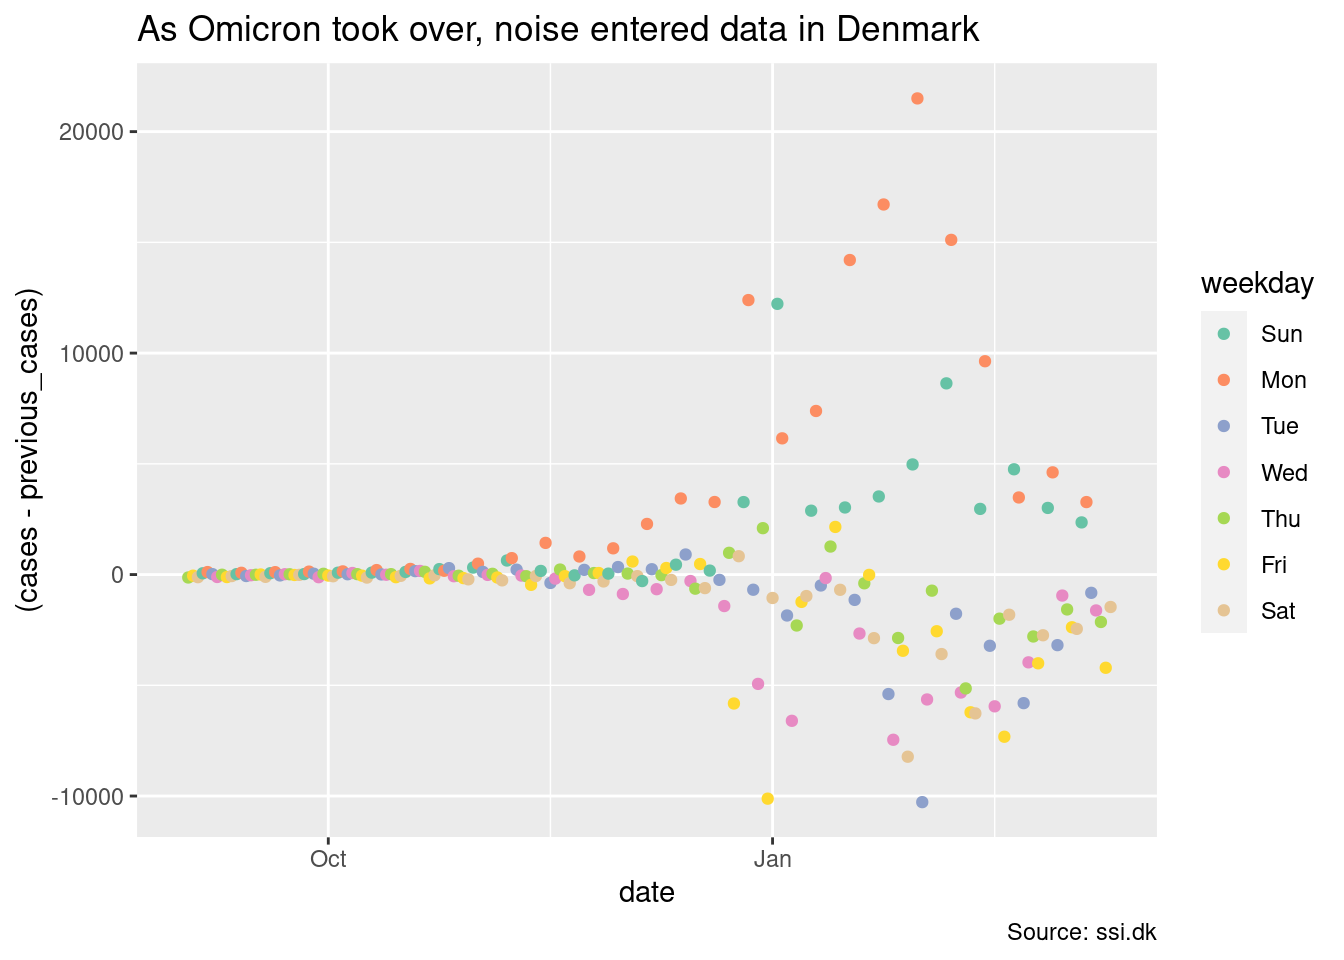
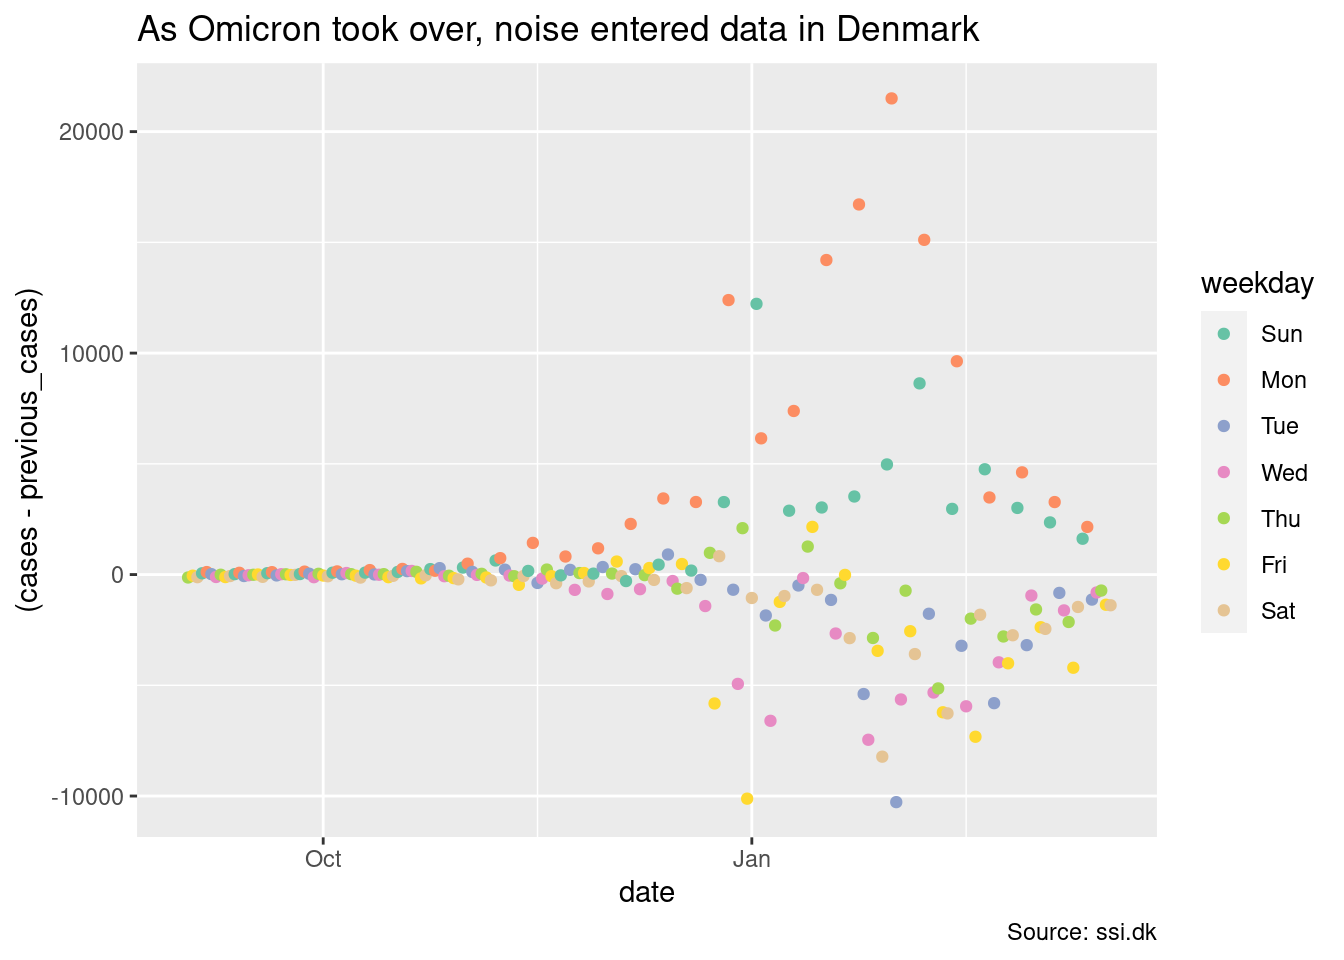
2022-03-22

diff --git a/docs/index.html b/docs/index.html
@@ -10,7 +10,7 @@
 
 
 
-<meta name="date" content="2022-03-15" />
+<meta name="date" content="2022-03-22" />
 
 <title>Covid-19 Stats for Denmark</title>
 
@@ -261,7 +261,7 @@ $(document).ready(function () {
 
 
 <h1 class="title toc-ignore">Covid-19 Stats for Denmark</h1>
-<h4 class="date">2022-03-15</h4>
+<h4 class="date">2022-03-22</h4>
 
 </div>
 
@@ -308,7 +308,7 @@ $(document).ready(function () {
 <pre class="r"><code>library(tidyverse)
 library(lubridate)</code></pre>
 <p>SSI’s data is in a zip file. We unpack this zip file into a directory of the general form <code>YYYY-MM-DD</code>. Lets set up a name for the current directory we want to grab data from</p>
-<pre class="r"><code>date &lt;- &quot;2022-03-15&quot;</code></pre>
+<pre class="r"><code>date &lt;- &quot;2022-03-22&quot;</code></pre>
 </div>
 <div id="ingesting-data" class="section level2">
 <h2>Ingesting data</h2>
@@ -350,7 +350,7 @@ library(lubridate)</code></pre>
                                       ))</code></pre>
 <pre><code>## ℹ Using &quot;&#39;,&#39;&quot; as decimal and &quot;&#39;.&#39;&quot; as grouping mark. Use `read_delim()` for more control.</code></pre>
 <pre class="r"><code>data</code></pre>
-<pre><code>## # A tibble: 7,129 × 9
+<pre><code>## # A tibble: 7,198 × 9
 ##    Region      Prøvetagningsdato Køn   `Bekræftede tilfælde…`  Døde Indlæggelser
 ##    &lt;fct&gt;       &lt;date&gt;            &lt;fct&gt;                  &lt;dbl&gt; &lt;dbl&gt;        &lt;dbl&gt;
 ##  1 Sjælland    2020-02-26        M                          1     0            0
@@ -363,7 +363,7 @@ library(lubridate)</code></pre>
 ##  8 Hovedstaden 2020-03-03        F                          1     0            0
 ##  9 Hovedstaden 2020-03-03        M                          3     0            1
 ## 10 Hovedstaden 2020-03-04        M                          2     0            0
-## # … with 7,119 more rows, and 3 more variables: `Kummuleret antal døde` &lt;dbl&gt;,
+## # … with 7,188 more rows, and 3 more variables: `Kummuleret antal døde` &lt;dbl&gt;,
 ## #   `Kummuleret antal bekræftede tilfælde` &lt;dbl&gt;,
 ## #   `Kummuleret antal indlæggelser` &lt;dbl&gt;</code></pre>
 <p>We certainly don’t want to work with danish-named columns. Rather, we want small descriptive names which are easy to type. We send our dataset through a <code>rename</code> pass for this.</p>
@@ -378,7 +378,7 @@ library(lubridate)</code></pre>
 # Cut the cumulative columns away
 data &lt;- data %&gt;% select(region, date, gender, cases, deaths, hospitalizations)
 data</code></pre>
-<pre><code>## # A tibble: 7,129 × 6
+<pre><code>## # A tibble: 7,198 × 6
 ##    region      date       gender cases deaths hospitalizations
 ##    &lt;fct&gt;       &lt;date&gt;     &lt;fct&gt;  &lt;dbl&gt;  &lt;dbl&gt;            &lt;dbl&gt;
 ##  1 Sjælland    2020-02-26 M          1      0                0
@@ -391,7 +391,7 @@ data</code></pre>
 ##  8 Hovedstaden 2020-03-03 F          1      0                0
 ##  9 Hovedstaden 2020-03-03 M          3      0                1
 ## 10 Hovedstaden 2020-03-04 M          2      0                0
-## # … with 7,119 more rows</code></pre>
+## # … with 7,188 more rows</code></pre>
 <p>Provide a low cut-off. We are interested in the recent period with Omicron, rather than the full duration of Covid-19.</p>
 <pre class="r"><code>lo_cutoff &lt;- &#39;2021-09-01&#39;</code></pre>
 <p>The high end of that cutoff, we set to two days before the maximal date in our data set</p>
@@ -405,7 +405,7 @@ data</code></pre>
 # Put this into the summary
 summary &lt;- data
 summary</code></pre>
-<pre><code>## # A tibble: 1,930 × 6
+<pre><code>## # A tibble: 2,000 × 6
 ##    region      date       gender cases deaths hospitalizations
 ##    &lt;fct&gt;       &lt;date&gt;     &lt;fct&gt;  &lt;dbl&gt;  &lt;dbl&gt;            &lt;dbl&gt;
 ##  1 Hovedstaden 2021-09-01 F        215      0                7
@@ -418,7 +418,7 @@ summary</code></pre>
 ##  8 Nordjylland 2021-09-01 M         16      1                2
 ##  9 Sjælland    2021-09-01 M         39      0                3
 ## 10 Syddanmark  2021-09-01 M         41      0                1
-## # … with 1,920 more rows</code></pre>
+## # … with 1,990 more rows</code></pre>
 </div>
 <div id="weekly-key-figures-split-by-age" class="section level3">
 <h3>Weekly key figures split by age</h3>
@@ -443,7 +443,7 @@ summary</code></pre>
                         tested = &#39;Antal testede&#39;,
                         cases = &#39;Antal positive&#39;)
 data</code></pre>
-<pre><code>## # A tibble: 976 × 7
+<pre><code>## # A tibble: 985 × 7
 ##    week     ageGroup tested_100k cases_100k hospitalized_100k tested cases
 ##    &lt;chr&gt;    &lt;fct&gt;          &lt;dbl&gt;      &lt;dbl&gt;             &lt;dbl&gt;  &lt;dbl&gt; &lt;dbl&gt;
 ##  1 2020-W04 00-02              0          0                 0      0     0
@@ -456,7 +456,7 @@ data</code></pre>
 ##  8 2020-W04 65-79              0          0                 0      0     0
 ##  9 2020-W04 80+                0          0                 0      0     0
 ## 10 2020-W05 65-79              0          0                 0      1     0
-## # … with 966 more rows</code></pre>
+## # … with 975 more rows</code></pre>
 <p>Take a look at the <code>week</code> column. It reports a year, and a week number. We’ll need to handle this, by converting this into a date. We’ll do that by defining a fixup function. If we have a string such as <code>2020-W04</code>, it means the 4th week of 2020. To get a date, we need a day inside the week to use as the day-of-week. So we turn the string into <code>2020-W04-1</code>, then send it through <code>strptime()</code>, a general time-parsing function.</p>
 <pre class="r"><code>fixup_week &lt;- function(s) {
     # For strptime to do its work correctly, it must know a day of the week. Here, we
@@ -509,15 +509,15 @@ data</code></pre>
 ##     lau1 name       `Bekræftede ti…` Incidens cases incidence tested tested_100k
 ##    &lt;dbl&gt; &lt;fct&gt;                 &lt;dbl&gt;    &lt;dbl&gt; &lt;dbl&gt;     &lt;dbl&gt;  &lt;dbl&gt;       &lt;dbl&gt;
 ##  1   411 &quot;&quot;                        0       NA     0        0      93      102000
-##  2   101 &quot;Københav…           360089    56114  6018      938. 659290      103000
-##  3   147 &quot;Frederik…            55551    53791  1079     1045  112669      109000
-##  4   151 &quot;Ballerup&quot;            26772    54319   539     1094   50286      102000
-##  5   153 &quot;Brøndby&quot;             20352    57031   308      863.  36358      102000
-##  6   155 &quot;Dragør&quot;               7780    53390   158     1084   14603      100000
-##  7   157 &quot;Gentofte&quot;            38158    51593   730      987   76383      103000
-##  8   159 &quot;Gladsaxe&quot;            37708    54517   688      995.  72423      105000
-##  9   161 &quot;Glostrup&quot;            12861    54912   250     1067   24523      105000
-## 10   163 &quot;Herlev&quot;              16509    57347   333     1157   29915      104000
+##  2   101 &quot;Københav…           363472    56641  3504      546  659811      103000
+##  3   147 &quot;Frederik…            56189    54409   648      628. 112788      109000
+##  4   151 &quot;Ballerup&quot;            27120    55025   379      769   50323      102000
+##  5   153 &quot;Brøndby&quot;             20571    57644   235      658.  36398      102000
+##  6   155 &quot;Dragør&quot;               7873    54028   101      693.  14614      100000
+##  7   157 &quot;Gentofte&quot;            38661    52273   504      681.  76465      103000
+##  8   159 &quot;Gladsaxe&quot;            38148    55153   457      661.  72487      105000
+##  9   161 &quot;Glostrup&quot;            13026    55617   168      717.  24549      105000
+## 10   163 &quot;Herlev&quot;              16702    58017   205      712.  29938      104000
 ## # … with 89 more rows, and 3 more variables: tested_1w &lt;dbl&gt;,
 ## #   tested_100k_1w &lt;dbl&gt;, population &lt;dbl&gt;</code></pre>
 <pre class="r"><code>muncipalities &lt;- data</code></pre>
@@ -699,21 +699,21 @@ muncipalities$incidence_type &lt;- ifelse(muncipalities$incidence_z &lt; 0, &quo
 muncipalities$rate_z &lt;- round(muncipalities$rate - mean(muncipalities$rate), 5)
 muncipalities$rate_type &lt;- ifelse(muncipalities$rate_z &lt; 0, &quot;Below mean&quot;, &quot;Above mean&quot;)
 muncipalities$rate</code></pre>
-<pre><code>##  [1] 0.0000000 0.2144843 0.2389812 0.1970750 0.1770115 0.2237960 0.2209443
-##  [8] 0.2065446 0.1957713 0.2065757 0.2106061 0.1772537 0.1821024 0.2562738
-## [15] 0.1957203 0.1530945 0.2110228 0.1982544 0.2432575 0.2309879 0.2174125
-## [22] 0.2293640 0.2128244 0.2330335 0.2336656 0.2536356 0.2501030 0.2221298
-## [29] 0.2266395 0.2209502 0.2495238 0.2222222 0.2360577 0.2870006 0.2626656
-## [36] 0.2866208 0.3200732 0.3097726 0.2370022 0.2389381 0.2942359 0.2552574
-## [43] 0.2037511 0.2337366 0.2308620 0.2808475 0.2614355 0.2806227 0.3160355
-## [50] 0.3238129 0.2881016 0.2643849 0.2442018 0.2616921 0.2977049 0.3369231
-## [57] 0.3915547 0.2914420 0.3122901 0.2494226 0.2924489 0.3154781 0.2644231
-## [64] 0.3372268 0.3221406 0.2758534 0.2663827 0.3043569 0.2802330 0.2944360
-## [71] 0.3329519 0.2889833 0.3712737 0.3463882 0.3037608 0.3509590 0.3102246
-## [78] 0.2770468 0.3085150 0.3129504 0.3734177 0.3025129 0.2851486 0.3500000
-## [85] 0.3709987 0.3210432 0.3457312 0.3196941 0.3352133 0.3128660 0.3209424
-## [92] 0.3111441 0.3001319 0.2582781 0.3202329 0.3196763 0.3429027 0.2929942
-## [99] 0.2945879</code></pre>
+<pre><code>##  [1] 0.0000000 0.1729516 0.2026900 0.2034353 0.1664306 0.1887850 0.2035541
+##  [8] 0.1901789 0.1766562 0.1855204 0.1886228 0.1666667 0.1746111 0.2054795
+## [15] 0.1719663 0.1427156 0.2080706 0.2192429 0.2239241 0.2204641 0.2136119
+## [22] 0.2008772 0.1971958 0.2443920 0.2027369 0.2156511 0.2194093 0.2288876
+## [29] 0.2094948 0.2040650 0.2452107 0.1947769 0.2033195 0.2509363 0.2236272
+## [36] 0.2221494 0.2943750 0.2712766 0.2292347 0.2078086 0.2615083 0.2354049
+## [43] 0.2101293 0.2161149 0.2321297 0.2508073 0.2376841 0.2573662 0.2662835
+## [50] 0.2760278 0.2507553 0.2362898 0.1998925 0.2102211 0.2529611 0.3064877
+## [57] 0.2960725 0.2688808 0.2474950 0.2462567 0.2848937 0.2513812 0.1333333
+## [64] 0.2804548 0.3279608 0.2748453 0.2546318 0.3042506 0.2485225 0.2611419
+## [71] 0.3124783 0.2725410 0.3172589 0.3314840 0.2535527 0.3155588 0.3105413
+## [78] 0.3254818 0.2934962 0.3072081 0.2736842 0.3003625 0.2658753 0.2963259
+## [85] 0.3346891 0.2981205 0.3104738 0.3085612 0.3723618 0.2753404 0.2967033
+## [92] 0.2953415 0.2542986 0.2352941 0.3323293 0.3437500 0.3021978 0.2536977
+## [99] 0.2938985</code></pre>
 <pre class="r"><code>ggplot(muncipalities %&gt;% mutate(name = fct_reorder(name, rate)), aes(x=name, y=rate)) +
   geom_bar(stat=&#39;identity&#39;, aes(fill=rate_type), width=.5)  +
   scale_colour_brewer(palette=&quot;Set2&quot;) +
@@ -773,15 +773,15 @@ popcount</code></pre>
 ##    name            incidence popcount
 ##    &lt;chr&gt;               &lt;dbl&gt;    &lt;dbl&gt;
 ##  1 &quot;&quot;                     0        NA
-##  2 &quot;København&quot;          938.   644987
-##  3 &quot;Frederiksberg&quot;     1045    103963
-##  4 &quot;Ballerup&quot;          1094     49228
-##  5 &quot;Brøndby&quot;            863.    35535
-##  6 &quot;Dragør&quot;            1084     14602
-##  7 &quot;Gentofte&quot;           987     74154
-##  8 &quot;Gladsaxe&quot;           995.    69321
-##  9 &quot;Glostrup&quot;          1067     23519
-## 10 &quot;Herlev&quot;            1157     28861
+##  2 &quot;København&quot;          546    644987
+##  3 &quot;Frederiksberg&quot;      628.   103963
+##  4 &quot;Ballerup&quot;           769     49228
+##  5 &quot;Brøndby&quot;            658.    35535
+##  6 &quot;Dragør&quot;             693.    14602
+##  7 &quot;Gentofte&quot;           681.    74154
+##  8 &quot;Gladsaxe&quot;           661.    69321
+##  9 &quot;Glostrup&quot;           717.    23519
+## 10 &quot;Herlev&quot;             712.    28861
 ## # … with 89 more rows</code></pre>
 <p>Now, test correlation via Pearson:</p>
 <pre class="r"><code>plot(muncipalities$incidence, muncipalities$popcount)</code></pre>
@@ -791,13 +791,13 @@ popcount</code></pre>
 ##  Pearson&#39;s product-moment correlation
 ## 
 ## data:  muncipalities$incidence and muncipalities$popcount
-## t = -1.6806, df = 92, p-value = 0.09624
+## t = -2.1913, df = 92, p-value = 0.03095
 ## alternative hypothesis: true correlation is not equal to 0
 ## 95 percent confidence interval:
-##  -0.36252268  0.03112281
+##  -0.40697368 -0.02105557
 ## sample estimates:
 ##        cor 
-## -0.1725825</code></pre>
+## -0.2227224</code></pre>
 <p>Clearly, this argues there are no strong connection between population count, and the incidence in a given muncipality.</p>
 <p>Analyzing the rate shows there’s a connection between it and incidence, but this is more expected:</p>
 <pre class="r"><code>pairs(muncipalities %&gt;% select(incidence,popcount,rate))</code></pre>
@@ -807,17 +807,17 @@ popcount</code></pre>
 ##  Pearson&#39;s product-moment correlation
 ## 
 ## data:  muncipalities$incidence and muncipalities$rate
-## t = 14.823, df = 97, p-value &lt; 2.2e-16
+## t = 12.29, df = 97, p-value &lt; 2.2e-16
 ## alternative hypothesis: true correlation is not equal to 0
 ## 95 percent confidence interval:
-##  0.7605513 0.8848312
+##  0.6890815 0.8472374
 ## sample estimates:
 ##       cor 
-## 0.8329087</code></pre>
+## 0.7803413</code></pre>
 <p>Summarize:</p>
 <pre class="r"><code>summary(muncipalities$rate)</code></pre>
 <pre><code>##    Min. 1st Qu.  Median    Mean 3rd Qu.    Max. 
-##  0.0000  0.2309  0.2770  0.2701  0.3126  0.3916</code></pre>
+##  0.0000  0.2079  0.2485  0.2460  0.2937  0.3724</code></pre>
 <pre class="r"><code>d &lt;- density(muncipalities$rate)
 plot(d)</code></pre>
 <p><img src="index_files/figure-html/muncipality-summary-1.png" width="672" /></p>

diff --git a/docs/core.html b/docs/core.html
@@ -10,7 +10,7 @@
 
 
 
-<meta name="date" content="2022-03-15" />
+<meta name="date" content="2022-03-22" />
 
 <title>Core Covid-19 Stats for Denmark</title>
 
@@ -261,7 +261,7 @@ $(document).ready(function () {
 
 
 <h1 class="title toc-ignore">Core Covid-19 Stats for Denmark</h1>
-<h4 class="date">2022-03-15</h4>
+<h4 class="date">2022-03-22</h4>
 
 </div>
 
@@ -325,7 +325,7 @@ rt_cases</code></pre>
 <pre class="r"><code>m_cases_timeseries_path &lt;- sprintf(&quot;%s/Municipality_cases_time_series.csv&quot;, path)
 m_cases_timeseries &lt;- readr::read_csv2(m_cases_timeseries_path)
 m_cases_timeseries</code></pre>
-<pre><code>## # A tibble: 748 × 101
+<pre><code>## # A tibble: 755 × 101
 ##    SampleDate Roskilde Copenhagen Aarhus Frederiksberg Kalundborg Middelfart
 ##    &lt;date&gt;        &lt;dbl&gt;      &lt;dbl&gt;  &lt;dbl&gt;         &lt;dbl&gt;      &lt;dbl&gt;      &lt;dbl&gt;
 ##  1 2020-02-26        1          0      0             0          0          0
@@ -338,7 +338,7 @@ m_cases_timeseries</code></pre>
 ##  8 2020-03-05        0          2      0             2          0          0
 ##  9 2020-03-06        0          0      0             0          0          0
 ## 10 2020-03-07        0          1      1             1          0          0
-## # … with 738 more rows, and 94 more variables: Gentofte &lt;dbl&gt;, Solrød &lt;dbl&gt;,
+## # … with 745 more rows, and 94 more variables: Gentofte &lt;dbl&gt;, Solrød &lt;dbl&gt;,
 ## #   Allerød &lt;dbl&gt;, Dragør &lt;dbl&gt;, Helsingør &lt;dbl&gt;, Hillerød &lt;dbl&gt;,
 ## #   Rudersdal &lt;dbl&gt;, Næstved &lt;dbl&gt;, Aalborg &lt;dbl&gt;, Vallensbæk &lt;dbl&gt;,
 ## #   Esbjerg &lt;dbl&gt;, Favrskov &lt;dbl&gt;, Frederikssund &lt;dbl&gt;, Furesø &lt;dbl&gt;,
@@ -351,7 +351,7 @@ m_cases_timeseries</code></pre>
   rename(date = `SampleDate`)
 
 m_cases_timeseries</code></pre>
-<pre><code>## # A tibble: 74,800 × 3
+<pre><code>## # A tibble: 75,500 × 3
 ##    date       Municipality  Cases
 ##    &lt;date&gt;     &lt;chr&gt;         &lt;dbl&gt;
 ##  1 2020-02-26 Roskilde          1
@@ -364,7 +364,7 @@ m_cases_timeseries</code></pre>
 ##  8 2020-02-26 Solrød            0
 ##  9 2020-02-26 Allerød           0
 ## 10 2020-02-26 Dragør            0
-## # … with 74,790 more rows</code></pre>
+## # … with 75,490 more rows</code></pre>
 <p>We use the same strategy for the tests:</p>
 <pre class="r"><code>m_tested_timeseries_path &lt;- sprintf(&quot;%s/Municipality_tested_persons_time_series.csv&quot;, path)
 m_tested_timeseries &lt;- readr::read_csv2(m_tested_timeseries_path)
@@ -375,7 +375,7 @@ m_tested_timeseries &lt;- m_tested_timeseries %&gt;%
 <pre class="r"><code>municipality &lt;- m_cases_timeseries %&gt;% left_join(m_tested_timeseries, by = c(&quot;date&quot;, &quot;Municipality&quot;))
 municipality &lt;- municipality %&gt;% mutate(Municipality = factor(Municipality))
 municipality</code></pre>
-<pre><code>## # A tibble: 74,800 × 4
+<pre><code>## # A tibble: 75,500 × 4
 ##    date       Municipality  Cases Tested
 ##    &lt;date&gt;     &lt;fct&gt;         &lt;dbl&gt;  &lt;dbl&gt;
 ##  1 2020-02-26 Roskilde          1      3
@@ -388,7 +388,7 @@ municipality</code></pre>
 ##  8 2020-02-26 Solrød            0      0
 ##  9 2020-02-26 Allerød           0      0
 ## 10 2020-02-26 Dragør            0      0
-## # … with 74,790 more rows</code></pre>
+## # … with 75,490 more rows</code></pre>
 </div>
 </div>
 <div id="plots-of-interest" class="section level2">
